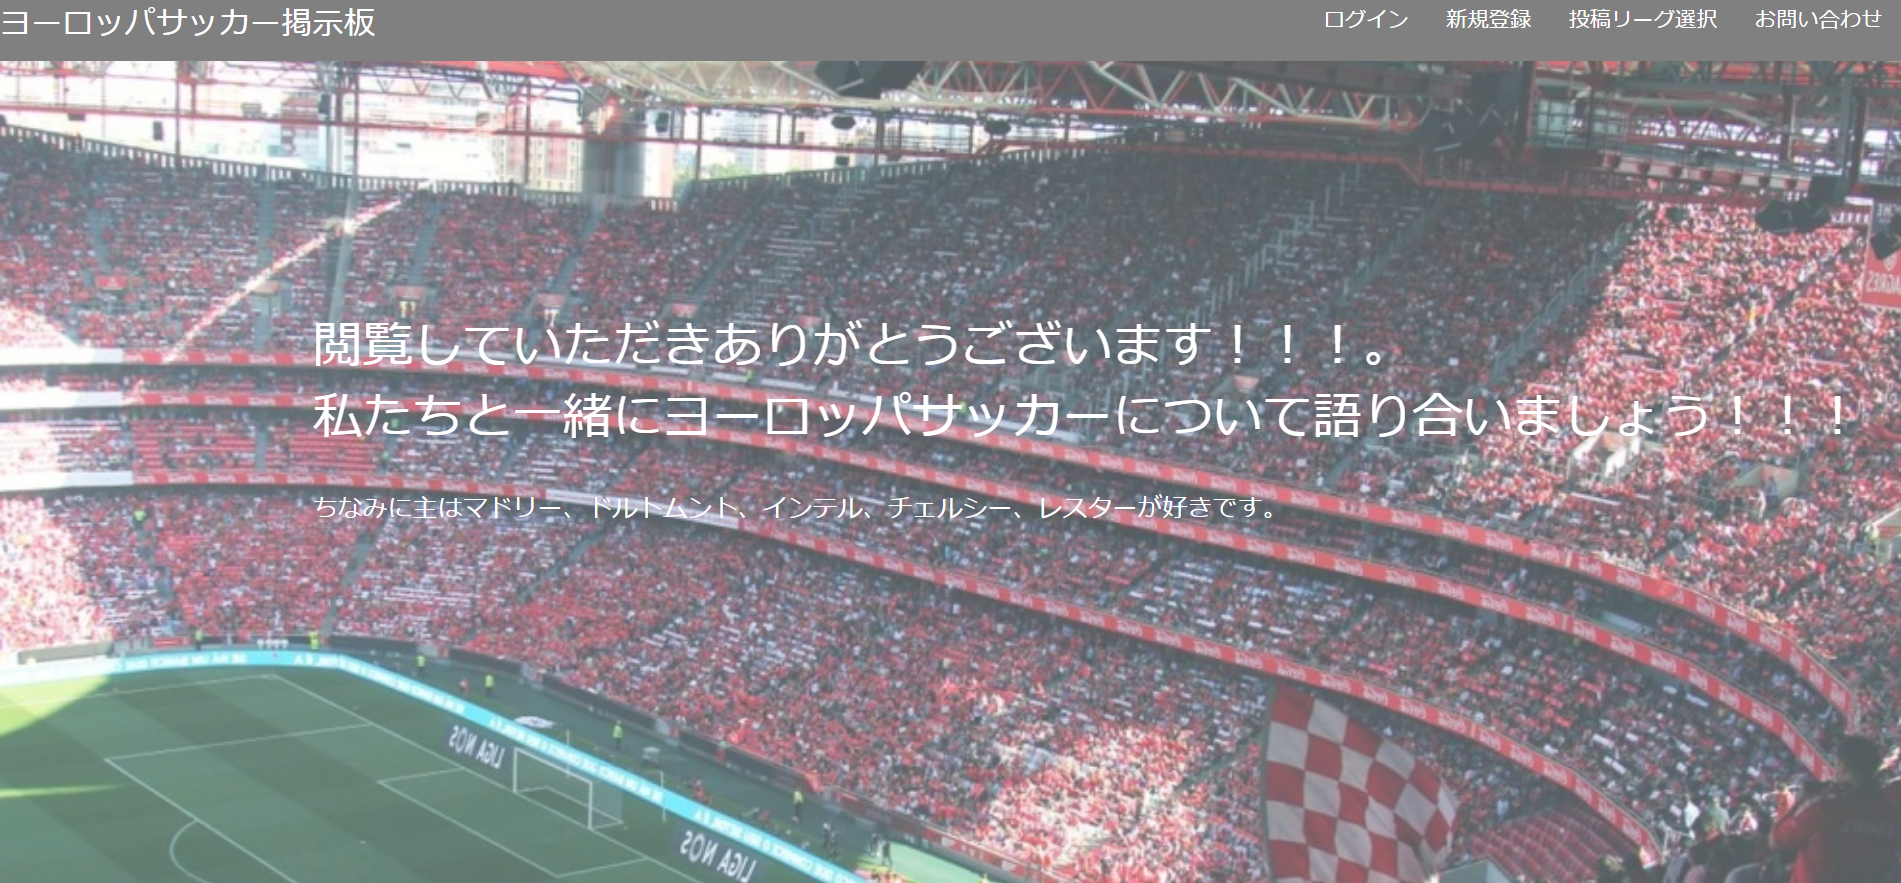
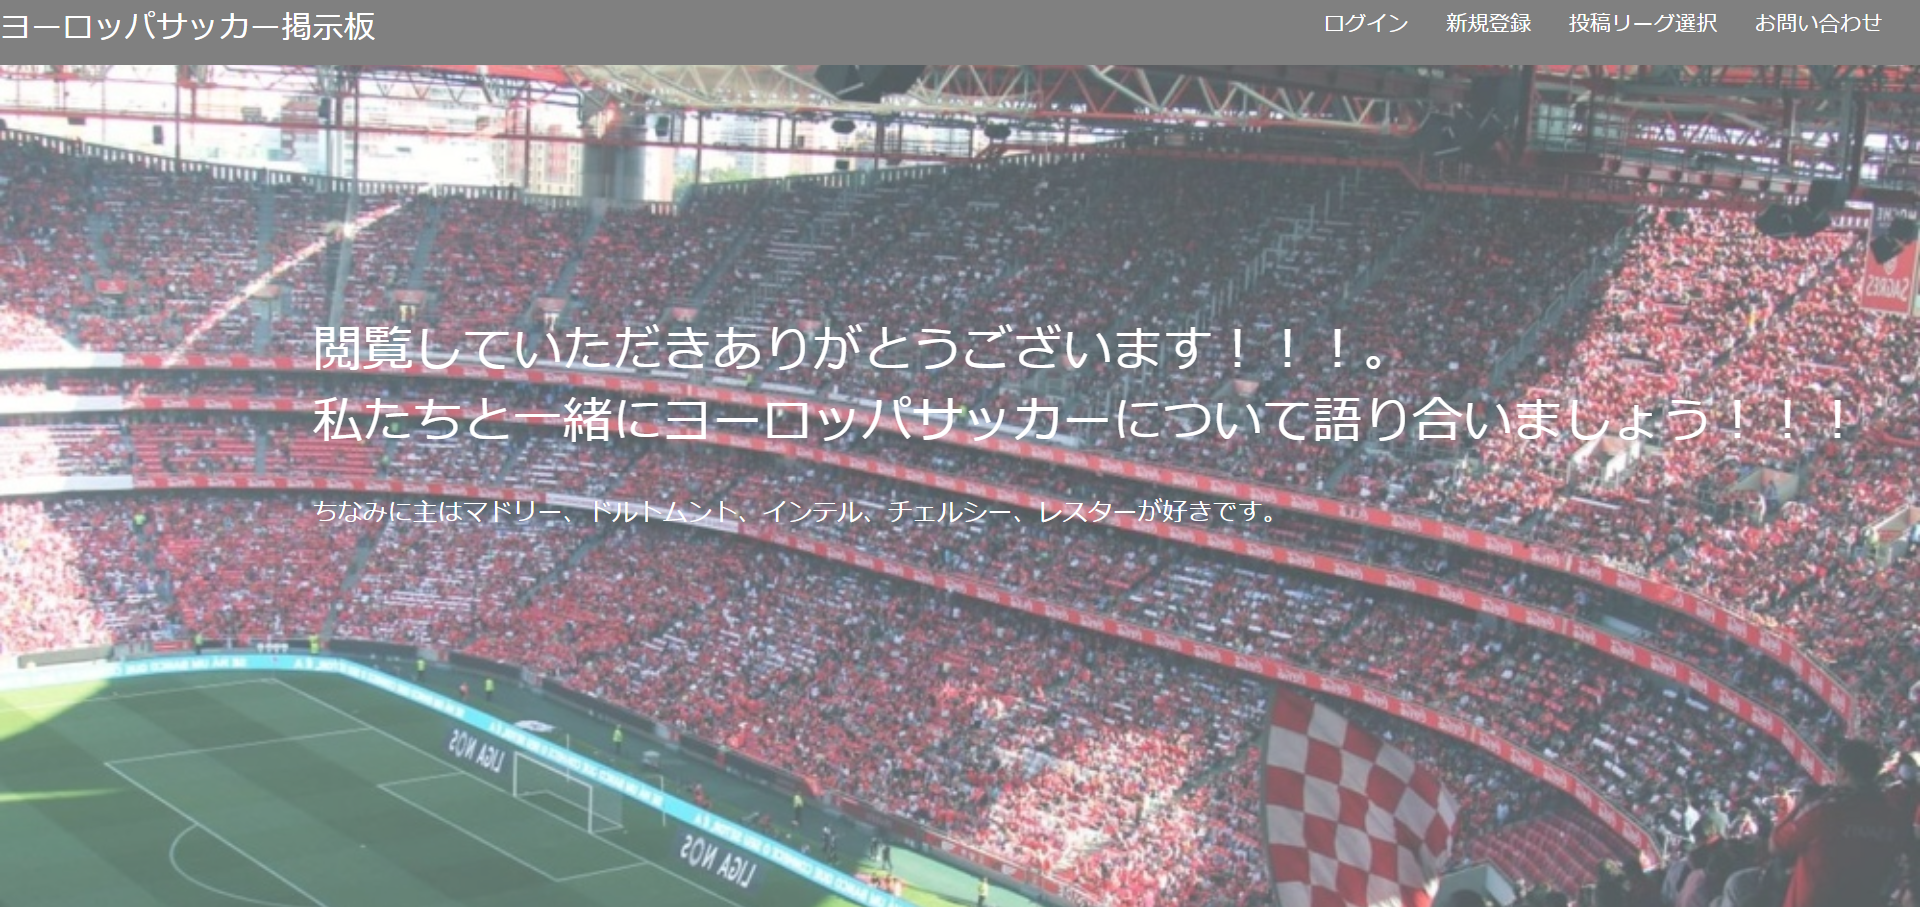
fix image_size responsive

diff --git a/app/assets/stylesheets/home.scss b/app/assets/stylesheets/home.scss
@@ -1,9 +1,40 @@
 // Place all the styles related to the home controller here.
 // They will automatically be included in application.css.
 // You can use Sass (SCSS) here: https://sass-lang.com/
-.wrap_original {
-    overflow: hidden;
-    .jumbotron.jumbotron-fluid{
+@media screen and (min-width: 993px) {
+    .wrap_original {
+        overflow: hidden;
+    }
+    .jumbotron.jumbotron-fluid {
         margin: 15px;
+        img {
+            max-width: 100%;
+            height: auto;
+        }
     }
+}
+
+@media screen and (max-width: 992px) {
+    .wrap_original {
+        overflow: hidden;
     }
+    .jumbotron.jumbotron-fluid {
+        margin: 15px;
+        img {
+            max-width: 100%;
+            height: auto;
+        }
+    }
+}
+@media screen and (max-width: 576px) {
+    .wrap_original {
+        overflow: hidden;
+    }
+    .jumbotron.jumbotron-fluid {
+        margin: 15px;
+        img {
+            max-width: 100%;
+            height: auto;
+        }
+    }
+}
